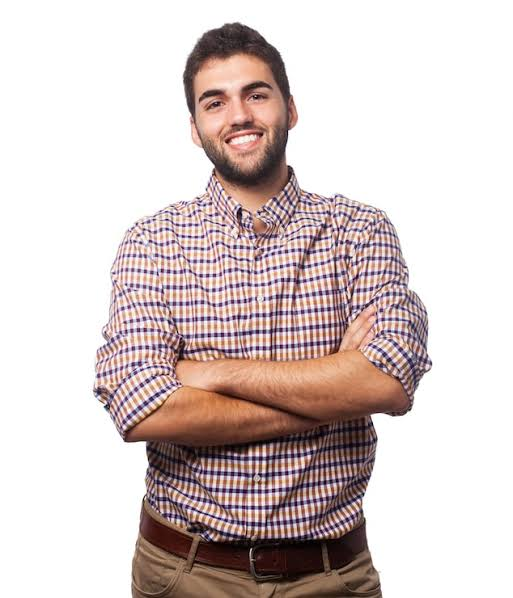
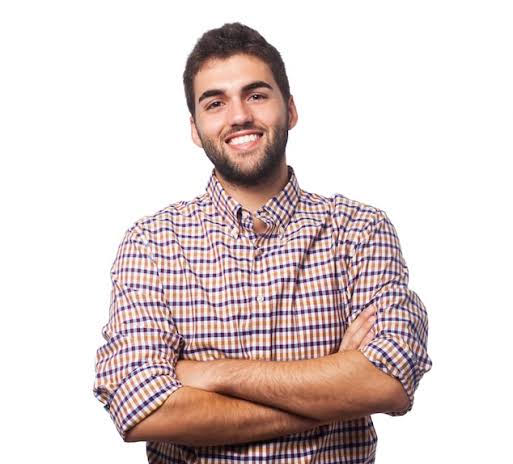
feat: cut-out-figures

diff --git a/style.css b/style.css
@@ -2,6 +2,19 @@ body {
     background-color: #ebe9e9;
 }
 
+marquee{
+    background-color: #eb0f0f;
+    color: #030303;
+    padding: 10px;
+    display: flex;
+    gap: 10px;
+}
+
+.bi-person-fill{
+    color: white;
+    background-color: #eb0f0f;
+}
+
 h1{
     font-family: 'Monserrat', sans-serif;
     font-size: 30px;
@@ -25,5 +38,9 @@ i{
 
 img{
     width: 100%;
-    height: auto;
+    height: 300px;
+    object-fit: cover;
+    clip-path: polygon(
+        50% 0%, 100% 25%, 100% 75%, 50% 100%, 0% 75%, 0% 25%
+    );
 }

diff --git a/index.html b/index.html
@@ -8,8 +8,7 @@
     <link rel="stylesheet" href="https://cdn.jsdelivr.net/npm/bootstrap-icons@1.11.3/font/bootstrap-icons.min.css">
 </head>
 <body>
-    <img src="" alt="logo user" id="logo-user">
-    <marquee><h1><b>CONFERENCISTAS</b> / Conoce a los expertos</h1></marquee>
+    <marquee><i class="bi bi-person-fill"></i><h1><b>CONFERENCISTAS</b> / Conoce a los expertos</h1></marquee>
     <div id="main-container">
         <div class="container">
             <img src="img/hombre.jpeg" alt="Alejandro Morales">
